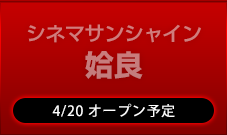
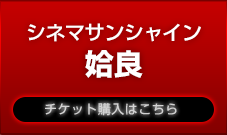
SASAKI-148 特設サイト漫画ページ更新　4/20

diff --git a/lp/4dx/index.html b/lp/4dx/index.html
@@ -84,7 +84,7 @@ src="https://www.facebook.com/tr?id=233509890323398&ev=PageView&noscript=1"
                     </ul>
                      <ul>
                         <li>
-                             <img src="/lp/4dx/images/bottan_aira.png" alt="シネマサンシャイン姶良">
+                             <a href="http://www.cinemasunshine.co.jp/theater/aira/"><img src="/lp/4dx/images/bottan_aira.png" alt="シネマサンシャイン姶良"></a>
                         </li>
                     </ul>
                 </div>
@@ -111,38 +111,7 @@ src="https://www.facebook.com/tr?id=233509890323398&ev=PageView&noscript=1"
                     </div>
                 </div>
 
-                <div class="lineup-naka">
-                    <div class="lineup-naka-naka">
-                        <h3>モアナと伝説の海</h3>
-                        <div class="lineup-naka-left">
-                            <p class="text">
-                            海に選ばれた少女モアナ──16才の彼女は、幼い頃に海と“ある出会い”をしたことから、愛する島の人々を救うべく運命づけられる。それは、命の女神テ・フィティの盗まれた“心”を元に戻し、世界を闇から守ること。神秘の大海原へ旅立った彼女は、伝説の英雄にして海と風の守り神マウイと出会い、二人で命知らずの冒険を繰り広げる。それは、悩み傷つきながらも自分の進むべき道を見つけていく、モアナの心の旅の始まりでもあった…。
-                            </p>
-                            <p class="date">上映中※4/20まで</p>
-                        </div>
-                        <div class="lineup-naka-right">
-                            <img src="/lp/4dx/images/picture04.jpg" alt="モアナと伝説の海">
-                            <p class="copy">©2017 Disney. All Rights Reserved.</p>
-                        </div>
-                    </div>
-                </div>
-
-                <div class="lineup-naka">
-                    <div class="lineup-naka-naka">
-                        <h3>キングコング　髑髏島の巨神</h3>
-                        <div class="lineup-naka-left">
-                            <p class="text">
-                            人が決して足を踏み入れてはいけない島ーー髑髏島（ドクロトウ）。簡単な任務のつもりで島に潜入した調査隊の前に突如、姿を現す島の巨大なる“守護神”キングコング。そして次々と現れる巨大な怪獣たち…。人類は生きて、この島から脱出できるのかーー。「マイティ・ソー」トム・ヒドルストン、「ルーム」ブリー・ラーソン、そして日本人戦闘機パイロット役で“サムライ・ギタリスト”MIYAVIが出演。撮影は「ジュラシック・パーク」ハワイ・オアフのクアロア・ランチ、ベトナムなどで行われた。怪獣映画だけでなく「新世紀エヴァンゲリオン」、ジブリ作品などのアニメ、ゲームなどのジャパン・カルチャーへのオマージュも見どころ。ハリウッド「GODZILLA ゴジラ」チームが贈る、“全編、クライマックス”の暴走！アクション・アドベンチャー超大作。2020年には“巨神”コングと“怪獣王”ゴジラとの対決も発表されており、空前絶後の！モンスター・バトルが今、始まるーー。
-                            </p>
-                            <p class="date">上映中</p>
-                        </div>
-                        <div class="lineup-naka-right">
-                            <img src="/lp/4dx/images/picture01.jpg" alt="キングコング　髑髏島の巨神">
-                            <p class="copy">©2016 WARNER BROS.ENTERTAINMENT INC., LEGENDARY PICTURES PRODUCTIONS,</p>
-                        </div>
-                    </div>
-                </div>
-
+                
                 <div class="lineup-naka">
                     <div class="lineup-naka-naka">
                         <h3>美女と野獣</h3>

diff --git a/lp/imax/index.html b/lp/imax/index.html
@@ -93,20 +93,6 @@ j=d.createElement(s),dl=l!='dataLayer'?'&l='+l:'';j.async=true;j.src=
             
 
                 <li>
-                    <h3>キングコング　髑髏島の巨神</h3>
-                    <div class="logo"><img src="/lp/imax/images/imax3dlogo.png" width="143" height="18" alt="キングコング　髑髏島の巨神"></div>
-                    <div class="left">
-                        <p>人が決して足を踏み入れてはいけない島ーー髑髏島（ドクロトウ）。簡単な任務のつもりで島に潜入した調査隊の前に突如、姿を現す島の巨大なる“守護神”キングコング。そして次々と現れる巨大な怪獣たち…。人類は生きて、この島から脱出できるのかーー。「マイティ・ソー」トム・ヒドルストン、「ルーム」ブリー・ラーソン、そして日本人戦闘機パイロット役で“サムライ・ギタリスト”MIYAVIが出演。撮影は「ジュラシック・パーク」ハワイ・オアフのクアロア・ランチ、ベトナムなどで行われた。怪獣映画だけでなく「新世紀エヴァンゲリオン」、ジブリ作品などのアニメ、ゲームなどのジャパン・カルチャーへのオマージュも見どころ。ハリウッド「GODZILLA ゴジラ」チームが贈る、“全編、クライマックス”の暴走！アクション・アドベンチャー超大作。2020年には“巨神”コングと“怪獣王”ゴジラとの対決も発表されており、空前絶後の！モンスター・バトルが今、始まるーー。
-                        </p>
-                        <div class="date">上映中</div>
-                    </div>
-                    <div class="right">
-                        <img src="/lp/imax/images/picture02.jpg" width="464" height="249" alt="キングコング">
-                        <div class="credit">©2016 WARNER BROS.ENTERTAINMENT INC., LEGENDARY PICTURES PRODUCTIONS,<br>LLC AND RATPAC-DUNE ENTERTAINMENT LLC. ALL RIGHTS RESERVED</div>
-                    </div>
-                </li>
-
-                <li>
                     <h3>ゴースト・イン・ザ・シェル</h3>
                     <div class="logo"><img src="/lp/imax/images/imax3dlogo.png" width="143" height="18" alt="ゴースト・イン・ザ・シェル"></div>
                     <div class="left">
